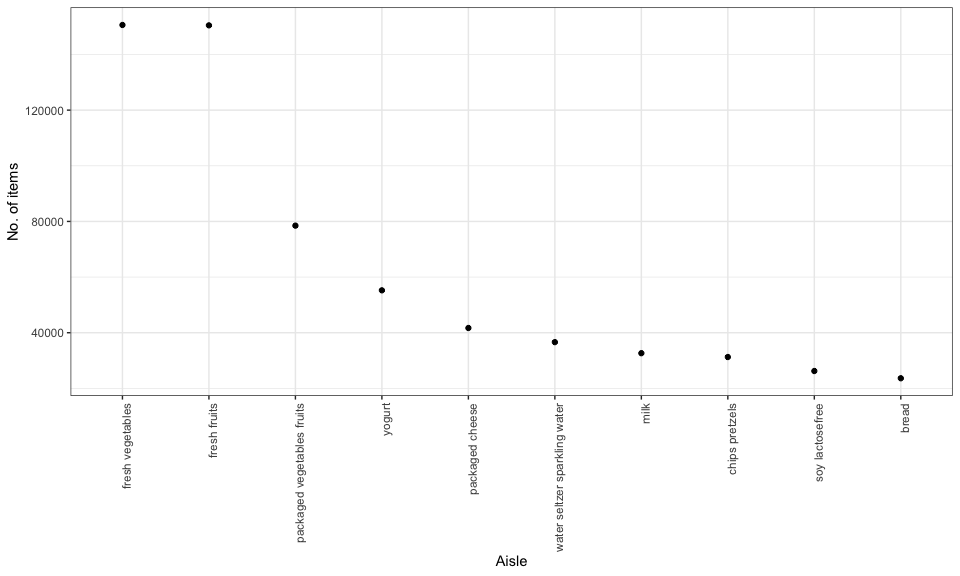
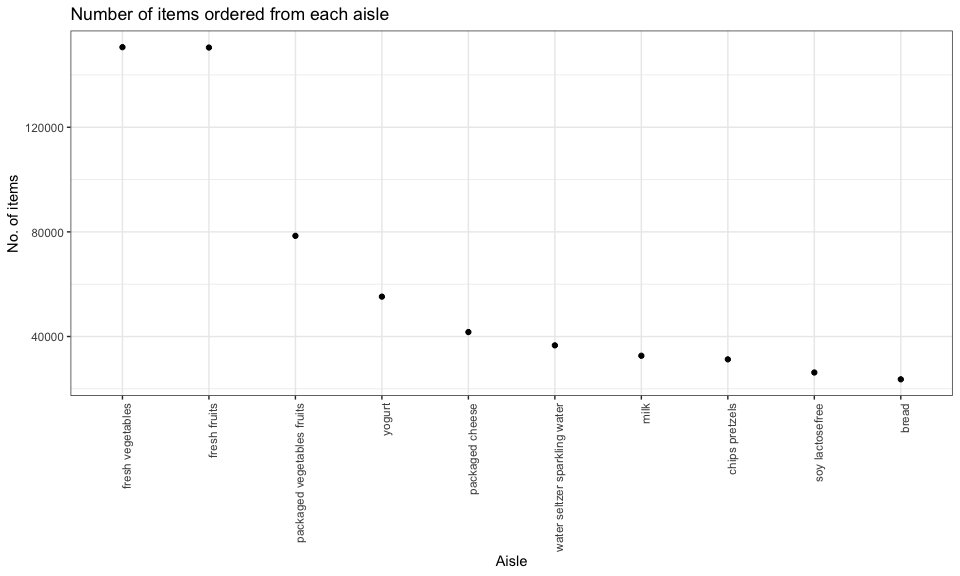
Loading the dataset for problem 3 and describing it.

diff --git a/p8105_hw3_pm2995.md b/p8105_hw3_pm2995.md
@@ -195,8 +195,8 @@ instacart %>%
   group_by(aisle) %>% 
   summarize(n_items = n()) %>% 
   mutate(aisle = reorder(aisle, desc(n_items))) %>% 
-  ggplot(aes(x = aisle, y = n_items)) + geom_point() + labs(main = "Number of items ordered from each aisle", x = "Aisle", y = "No. of items")  + 
-  theme(axis.text.x = element_text(angle = 90, hjust = 1))
+  ggplot(aes(x = aisle, y = n_items)) + geom_point() + labs(title = "Number of items ordered from each aisle", x = "Aisle", y = "No. of items")  + 
+  theme(axis.text.x = element_text(angle = 90, hjust = 1, vjust = 0.5), text = element_text(size = 8))
 ```
 
 <img src="p8105_hw3_pm2995_files/figure-markdown_github/unnamed-chunk-9-1.png" width="90%" />
@@ -212,7 +212,7 @@ instacart %>%
   mutate(aisle = reorder(aisle, desc(n_items))) %>% 
   filter(min_rank(aisle) < 11) %>% 
   
-  ggplot(aes(x = aisle, y = n_items)) + geom_point() + labs(main = "Number of items ordered from each aisle", x = "Aisle", y = "No. of items")  + 
+  ggplot(aes(x = aisle, y = n_items)) + geom_point() + labs(title = "Number of items ordered from each aisle", x = "Aisle", y = "No. of items")  + 
   theme(axis.text.x = element_text(angle = 90, hjust = 1))
 ```
 
@@ -270,3 +270,18 @@ It appears that coffee ice cream is ordered mostly in afternoons. Only on a frid
 
 Problem 3
 =========
+
+Loading the dataset
+
+``` r
+data("ny_noaa")
+```
+
+Problem 3.1
+-----------
+
+Short description of the dataset
+
+The NY NOAA data set is super extensive dataset with 2595176 rows and 7 columns. The key variables include id, tmax and tmin which are class `character`, prcp, snow , snwd are class `integer` and date. The variable ID denotes weather station ID, date of observation is included under date, precipitation (in tenths of mm) under prcp, snowfall observations are included in snow (in mm), depth of snow is inculded in snwd, tmax and tmin represent the maximum and minimum temperatures (in tenths of degrees C). The data include weather information for various weather station across the NY state from January 1, 1981 through December 31, 2010. It has been mentioned on the website with the data that each weather station may collect only a subset of these variables, and therefore the resulting dataset contains extensive missing data. There are total 1134358values missing for tmax, that denotes 43.7102532% values are missing for tmax. Also, 1134420 values are missing for tmin, that denotes 43.7126422% values missing for tmin indicating that not all stations recorded maximum and minimum temperatures for all the days. There are total 145838 number of values missing for precipitation which indicates 5.6195803% of values are missing for precipitation. This indicates that not all stations record precipitation on a daily basis.
+
+Taking the snow variable into account, the total missing values are 381221 which indicates 14.689601% values are missing. For snow depth, 591786 values that is 22.8033089% values are missing. We should be aware about these missing data while filtering values or while looking at the summary statistics of the data.
